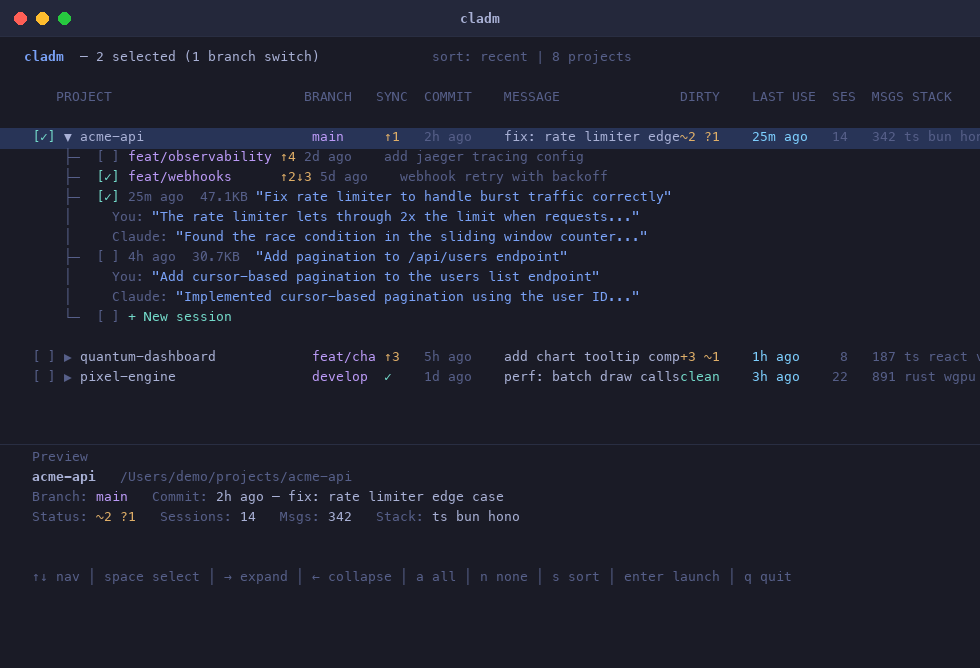
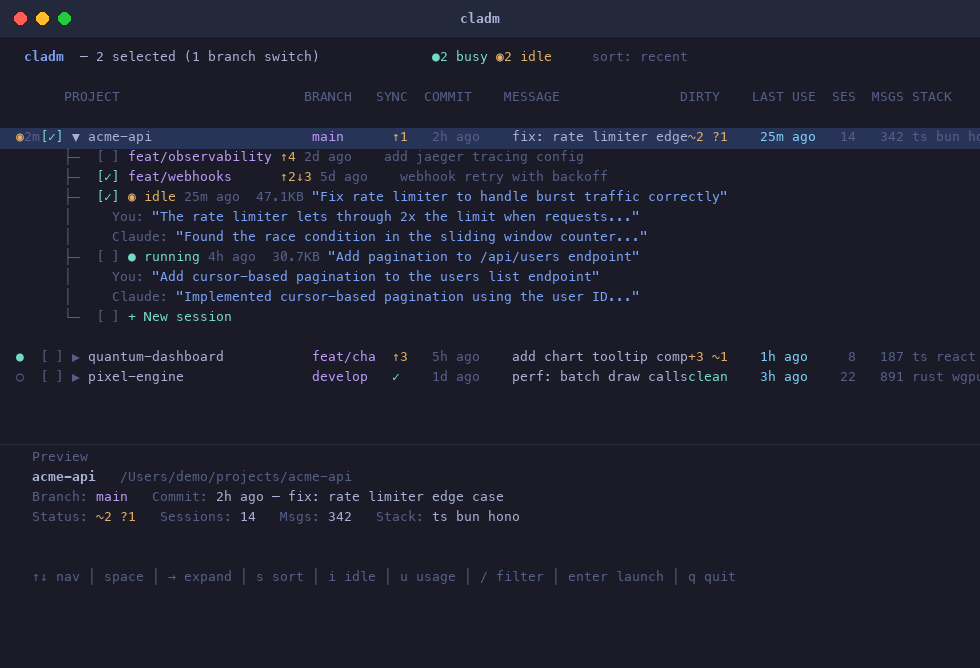
feat: regenerate screenshots with monitoring indicators and new panels
Updated all screenshots to show busy/idle status dots, session counts
in header, and new footer keybindings. Added usage panel and idle
sessions panel screenshots. Demo GIF now includes usage and idle
panel toggle scenes.

diff --git a/site/app/page.tsx b/site/app/page.tsx
@@ -320,8 +320,8 @@ export default function Home() {
           // USAGE & IDLE PANELS
         </h2>
 
-        <div className="grid grid-cols-1 md:grid-cols-2 gap-8 max-w-4xl mx-auto">
-          {/* Usage panel mock */}
+        <div className="space-y-12 max-w-4xl mx-auto">
+          {/* Usage panel screenshot */}
           <div>
             <div className="flex items-center gap-4 mb-4">
               <div className="h-[2px] flex-1 bg-border" />
@@ -330,46 +330,22 @@ export default function Home() {
               </h3>
               <div className="h-[2px] flex-1 bg-border" />
             </div>
-            <div className="pixel-border bg-surface p-5">
-              <div className="font-[family-name:var(--font-mono)] text-xs space-y-3">
-                <div>
-                  <div className="text-text font-bold mb-1">Session</div>
-                  <div className="flex items-center gap-2">
-                    <span className="text-green">{"████████"}</span>
-                    <span className="text-dim">{"░░░░░░░░░░"}</span>
-                    <span className="text-text font-bold">22%</span>
-                  </div>
-                  <div className="text-dim text-[10px] mt-0.5">resets 3h 2m &middot; $1.82/h</div>
-                </div>
-                <div>
-                  <div className="text-text font-bold mb-1">All models <span className="text-dim font-normal">$412</span></div>
-                  <div className="flex items-center gap-2">
-                    <span className="text-cyan">{"████████████"}</span>
-                    <span className="text-dim">{"░░░░░░"}</span>
-                    <span className="text-text font-bold">69%</span>
-                  </div>
-                </div>
-                <div>
-                  <div className="text-text font-bold mb-1">Sonnet <span className="text-dim font-normal">$31</span></div>
-                  <div className="flex items-center gap-2">
-                    <span className="text-green">{"█"}</span>
-                    <span className="text-dim">{"░░░░░░░░░░░░░░░░░"}</span>
-                    <span className="text-text font-bold">5%</span>
-                  </div>
-                </div>
-                <div>
-                  <div className="text-text font-bold mb-1">Feb total <span className="text-dim font-normal">$1,847</span></div>
-                  <div className="text-dim text-[10px]">$2.41/h avg &middot; 8,234 reqs</div>
-                </div>
-              </div>
-            </div>
-            <p className="font-[family-name:var(--font-mono)] text-dim text-[10px] mt-3 leading-relaxed">
+            <p className="font-[family-name:var(--font-mono)] text-dim text-xs text-center mb-6">
               Press <Keycap>u</Keycap> to toggle. Tracks session (5h window), weekly
-              all-model and sonnet-only costs against configurable plan limits.
+              all-model and sonnet-only costs against configurable plan limits, plus monthly totals.
             </p>
+            <TerminalWindow title="cladm — usage panel">
+              <Image
+                src="/screenshot-usage.png"
+                alt="cladm usage tracking panel with session, weekly, and monthly cost bars"
+                width={980}
+                height={500}
+                className="w-full"
+              />
+            </TerminalWindow>
           </div>
 
-          {/* Idle sessions panel mock */}
+          {/* Idle sessions screenshot */}
           <div>
             <div className="flex items-center gap-4 mb-4">
               <div className="h-[2px] flex-1 bg-border" />
@@ -378,36 +354,20 @@ export default function Home() {
               </h3>
               <div className="h-[2px] flex-1 bg-border" />
             </div>
-            <div className="pixel-border bg-surface p-5">
-              <div className="font-[family-name:var(--font-mono)] text-xs space-y-2">
-                <div className="text-dim text-[10px] mb-2">
-                  {"  TIME  PROJECT              SESSION"}
-                </div>
-                <div className="flex gap-2">
-                  <span className="text-yellow">◉</span>
-                  <span className="text-dim">12s</span>
-                  <span className="text-text">acme-api</span>
-                  <span className="text-dim ml-auto truncate max-w-[140px]">&quot;Fix rate limiter...&quot;</span>
-                </div>
-                <div className="flex gap-2">
-                  <span className="text-yellow">◉</span>
-                  <span className="text-dim">2m{" "}</span>
-                  <span className="text-text">quantum-dash</span>
-                  <span className="text-dim ml-auto truncate max-w-[140px]">&quot;Build chart tooltip...&quot;</span>
-                </div>
-                <div className="flex gap-2">
-                  <span className="text-yellow">◉</span>
-                  <span className="text-dim">8m{" "}</span>
-                  <span className="text-text">ml-pipeline</span>
-                  <span className="text-dim ml-auto truncate max-w-[140px]">&quot;Add BERT tokenizer...&quot;</span>
-                </div>
-              </div>
-            </div>
-            <p className="font-[family-name:var(--font-mono)] text-dim text-[10px] mt-3 leading-relaxed">
+            <p className="font-[family-name:var(--font-mono)] text-dim text-xs text-center mb-6">
               Press <Keycap>i</Keycap> to toggle. Shows sessions waiting for your
               input, sorted by most recently idle. Press Enter to focus a session&apos;s
               Terminal tab directly.
             </p>
+            <TerminalWindow title="cladm — idle sessions (2)">
+              <Image
+                src="/screenshot-idle.png"
+                alt="cladm idle sessions panel showing waiting sessions with elapsed time"
+                width={980}
+                height={500}
+                className="w-full"
+              />
+            </TerminalWindow>
           </div>
         </div>
       </section>
